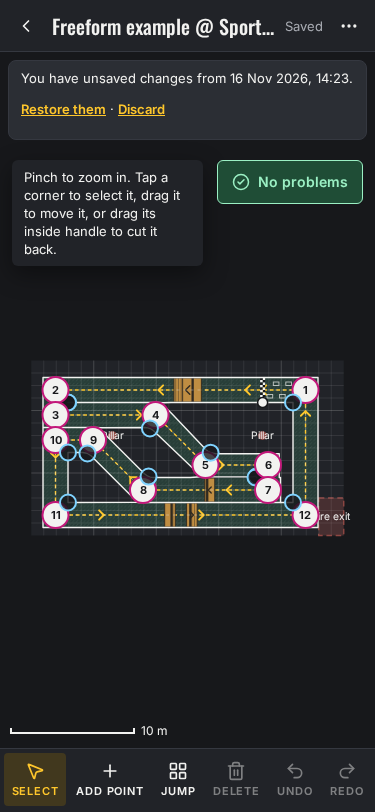
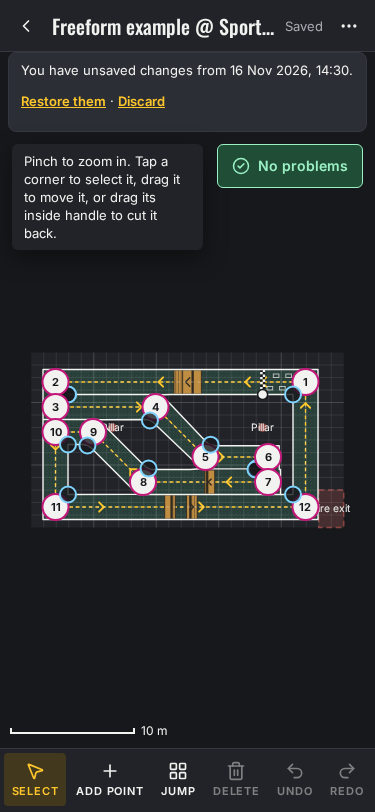
Review fixes for #124: restore prompt and messages together, menu never peeks, scoped field styles, Ctrl+S needs a login; retaken screenshots

Changed region(s): [[0.088, 0.431, 0.9387, 0.6773], [0.0293, 0.0616, 0.9973, 0.3387]]

diff --git a/apps/web/src/designer/PhoneEditLayout.tsx b/apps/web/src/designer/PhoneEditLayout.tsx
@@ -74,9 +74,9 @@ export interface PhoneBannerProps extends DesignerMessagesProps {
 }
 
 /**
- * The messages under the phone's header as one banner, the most pressing first: the restore prompt (no Dismiss: it is
- * the only way back to the unsaved work, and Discard is its answer), what just happened, not logged in, an approved
- * revision. The others can be dismissed.
+ * The messages under the phone's header as one banner. The restore prompt stays while there is unsaved work on offer
+ * (no Dismiss: it is the only way back to that work, and Discard is its answer); under it, the one note that matters
+ * most of what just happened (a save, an error), not logged in and an approved revision, which can be dismissed.
  */
 export function PhoneBanner({ restore, revision, onRestore, onDiscard, loggedIn, loginUrl, message, approvedRevision, dismissed, onDismiss }: PhoneBannerProps) {
   const dismiss = (key: "message" | "login" | "approved") => (
@@ -84,51 +84,43 @@ export function PhoneBanner({ restore, revision, onRestore, onDiscard, loggedIn,
       <X size={18} aria-hidden="true" />
     </button>
   );
-  let body: ReactNode = null;
-  let kind: "info" | "error" = "info";
-  if (restore) {
-    body = (
+  const note = message ? (
+    <Message kind={message.kind}>
+      <span>{message.text}</span>
+      {dismiss("message")}
+    </Message>
+  ) : !loggedIn && !dismissed.includes("login") ? (
+    <Message>
       <span>
-        You have unsaved changes from {fmt.dateTime(restore.savedAt)}
-        {revision !== undefined && restore.baseRevision !== revision ? ` (made on revision ${restore.baseRevision}; the track is at revision ${revision} now)` : ""}.{" "}
-        <button type="button" className="linkish" onClick={onRestore}>
-          Restore them
-        </button>{" "}
-        ·{" "}
-        <button type="button" className="linkish" onClick={onDiscard}>
-          Discard
-        </button>
+        You're not logged in: your work is kept on this device. <a href={loginUrl}>Log in</a> to save it.
       </span>
-    );
-  } else if (message) {
-    kind = message.kind;
-    body = (
-      <>
-        <span>{message.text}</span>
-        {dismiss("message")}
-      </>
-    );
-  } else if (!loggedIn && !dismissed.includes("login")) {
-    body = (
-      <>
-        <span>
-          You're not logged in: your work is kept on this device. <a href={loginUrl}>Log in</a> to save it.
-        </span>
-        {dismiss("login")}
-      </>
-    );
-  } else if (approvedRevision && !dismissed.includes("approved")) {
-    body = (
-      <>
-        <span>Revision {approvedRevision} is approved: it stays in the library and at meetings until a newer revision is approved. Saving here creates a new draft.</span>
-        {dismiss("approved")}
-      </>
-    );
-  }
-  if (!body) return null;
+      {dismiss("login")}
+    </Message>
+  ) : approvedRevision && !dismissed.includes("approved") ? (
+    <Message>
+      <span>Revision {approvedRevision} is approved: it stays in the library and at meetings until a newer revision is approved. Saving here creates a new draft.</span>
+      {dismiss("approved")}
+    </Message>
+  ) : null;
+  if (!restore && !note) return null;
   return (
     <div className="designer-messages phone-banner">
-      <Message kind={kind}>{body}</Message>
+      {restore && (
+        <Message>
+          <span>
+            You have unsaved changes from {fmt.dateTime(restore.savedAt)}
+            {revision !== undefined && restore.baseRevision !== revision ? ` (made on revision ${restore.baseRevision}; the track is at revision ${revision} now)` : ""}.{" "}
+            <button type="button" className="linkish" onClick={onRestore}>
+              Restore them
+            </button>{" "}
+            ·{" "}
+            <button type="button" className="linkish" onClick={onDiscard}>
+              Discard
+            </button>
+          </span>
+        </Message>
+      )}
+      {note}
     </div>
   );
 }

diff --git a/apps/web/src/styles.css b/apps/web/src/styles.css
@@ -983,13 +983,16 @@ select.ts-input { padding: 0 var(--space-2); }
 .phone-menu-seg button { min-height: var(--touch-target); padding: 0 var(--space-3); font: 600 14px/20px var(--font-sans); }
 .phone-menu-seg button[aria-checked="true"] { background: var(--accent); border-color: var(--accent); color: var(--accent-ink); }
 .phone-save-form, .phone-details { display: flex; flex-direction: column; gap: var(--space-3); }
-.phone-sheet .nfield > span:first-child { font: 600 11px/16px var(--font-sans); letter-spacing: 0.08em; text-transform: uppercase; color: var(--text-muted); }
-.phone-sheet .nfield input, .phone-sheet .nfield textarea { min-height: var(--touch-target); padding: var(--space-2) var(--space-3); border: 1px solid var(--line-strong); border-radius: var(--radius-md); background: var(--bg); color: var(--text); font: 400 16px/22px var(--font-sans); }
+/* the two new sheets' fields: `label` above, and 16 px text in the field (one step over `body`), the size below which
+   iOS Safari zooms the page in when a field takes the focus */
+:is(.phone-save-form, .phone-details) .nfield > span:first-child { font: 600 11px/16px var(--font-sans); letter-spacing: 0.08em; text-transform: uppercase; color: var(--text-muted); }
+:is(.phone-save-form, .phone-details) .nfield :is(input, textarea) { min-height: var(--touch-target); padding: var(--space-2) var(--space-3); border: 1px solid var(--line-strong); border-radius: var(--radius-md); background: var(--bg); color: var(--text); font: 400 16px/22px var(--font-sans); }
 .phone-details-facts { display: grid; gap: var(--space-2); margin: 0; }
 .phone-details-facts div { display: flex; align-items: center; justify-content: space-between; gap: var(--space-3); min-height: var(--touch-target); }
 .phone-details-facts dt { font: 600 11px/16px var(--font-sans); letter-spacing: 0.08em; text-transform: uppercase; color: var(--text-muted); }
 .phone-details-facts dd { margin: 0; font: 400 15px/22px var(--font-sans); text-align: right; }
-.phone-banner .msg { display: flex; align-items: flex-start; gap: var(--space-2); margin: var(--space-2) 0; padding: var(--space-2) var(--space-3); font: 400 13px/18px var(--font-sans); }
+.phone-banner { display: grid; gap: var(--space-2); padding-block: var(--space-2); }
+.phone-banner .msg { display: flex; align-items: flex-start; gap: var(--space-2); margin: 0; padding: var(--space-2) var(--space-3); font: 400 13px/18px var(--font-sans); }
 .phone-banner .msg > span { flex: 1 1 auto; min-width: 0; }
 .phone-banner .linkish { display: inline-flex; align-items: center; min-height: var(--touch-target); font-weight: 600; }
 .phone-banner-x { flex: none; display: grid; place-items: center; width: var(--touch-target); height: var(--touch-target); margin: calc(-1 * var(--space-2)) calc(-1 * var(--space-3)) calc(-1 * var(--space-2)) 0; padding: 0; border: 0; border-radius: var(--radius-md); background: transparent; color: inherit; cursor: pointer; }

diff --git a/apps/web/src/designer/Designer.tsx b/apps/web/src/designer/Designer.tsx
@@ -202,6 +202,8 @@ function ghostFeature(live: Live, type: FeatureType, hover: { s: number; at: Poi
 export function Designer({ mode, initial, base: initialBase, fromVenue, storageKey }: DesignerProps) {
   const navigate = useNavigate();
   const { me, loginUrl } = useSession();
+  const meRef = useRef(me);
+  meRef.current = me;
   const hist = useHistory<Draft>(initial);
   const draft = hist.present;
   const [base, setBase] = useState(initialBase);
@@ -476,9 +478,10 @@ export function Designer({ mode, initial, base: initialBase, fromVenue, storageK
         // save works from anywhere, also while typing in a field
         e.preventDefault();
         if (draftRef.current.laying || viewOnlyRef.current) return;
-        // the phone: the Save sheet (#124)
-        if (phoneEditRef.current) setPhoneSheet({ kind: "save", height: "peek" });
-        else setSaveOpen(true);
+        // the phone: the Save sheet (#124), when there's someone to save as (the header offers Log in otherwise)
+        if (phoneEditRef.current) {
+          if (meRef.current) setPhoneSheet({ kind: "save", height: "peek" });
+        } else setSaveOpen(true);
         return;
       }
       if (isTyping(e.target) || viewOnlyRef.current) return; // inputs keep their own undo, delete, etc.; view-only phones
@@ -1436,7 +1439,8 @@ export function Designer({ mode, initial, base: initialBase, fromVenue, storageK
   /** the phone's sheet pulled to a height, or closed (Close, Escape, pulled down): a closed selection sheet lets a jump or
    * the start line go, as the tablet's does; a corner stays selected, so Add point still adds after it */
   const phoneSheetHeight = (h: SheetHeight) => {
-    if (h !== "closed") return setPhoneSheet((s) => s && { ...s, height: h });
+    // the menu is as tall as its rows, all of them, or closed: never peek
+    if (h !== "closed") return setPhoneSheet((s) => s && (s.kind === "menu" ? s : { ...s, height: h }));
     if (phoneSheet?.kind === "selection" && sel?.kind !== "point") setSel(null);
     setPhoneSheet(null);
   };

diff --git a/apps/web/test/phone-menu.test.tsx b/apps/web/test/phone-menu.test.tsx
@@ -250,13 +250,21 @@ describe("the messages: one banner under the header", () => {
 
   it("nothing to say: nothing", () => expect(r(<PhoneBanner {...base} />)).toBe(""));
 
-  it("the restore prompt first, with Restore and Discard and no Dismiss: it's the only way back to the work", () => {
-    const html = r(<PhoneBanner {...base} restore={restore} loggedIn={false} approvedRevision={2} message={{ kind: "info", text: "Hi" }} />);
+  it("the restore prompt, with Restore and Discard and no Dismiss: it's the only way back to the work", () => {
+    const html = r(<PhoneBanner {...base} restore={restore} />);
     expect(count(html)).toBe(1);
     expect(html).toContain("You have unsaved changes from");
     expect(html).toMatch(/<button[^>]*>Restore them<\/button>/);
     expect(html).toMatch(/<button[^>]*>Discard<\/button>/);
     expect(html).not.toContain('aria-label="Dismiss"');
+  });
+
+  it("the restore prompt stays, and what just happened shows under it (a save error must be heard)", () => {
+    const html = r(<PhoneBanner {...base} restore={restore} loggedIn={false} approvedRevision={2} message={{ kind: "error", text: "Somebody saved first" }} />);
+    expect(count(html)).toBe(2);
+    expect(html.indexOf("You have unsaved changes")).toBeLessThan(html.indexOf("Somebody saved first"));
+    expect(html).toMatch(/<div class="msg msg-error" role="alert"><span>Somebody saved first<\/span><button[^>]*aria-label="Dismiss"/);
+    expect(html).not.toContain("not logged in");
   });
 
   it("then what just happened, not logged in, the approved revision; each can be dismissed", () => {

diff --git a/apps/web/e2e/phone-menu.e2e.ts b/apps/web/e2e/phone-menu.e2e.ts
@@ -124,6 +124,11 @@ test.describe("phone: save, submit and the ⋯ menu", () => {
     await expect(menu(page)).toHaveCount(0);
     await expect(more(page)).toBeFocused();
     await openMenu(page);
+    // a tap on the grab bar doesn't drop it to peek: every row stays on screen
+    await menu(page).locator(".bottom-sheet-handle").tap();
+    await page.waitForTimeout(300);
+    await expect(item(page, /^Back to track/)).toBeInViewport({ ratio: 1 });
+    await expect(item(page, /^Save revision/)).toBeInViewport({ ratio: 1 });
     // a tap on the scrim, above the menu: it goes, and nothing on the plan changed
     const before = await corners(page);
     const t = await Touch.on(page);
